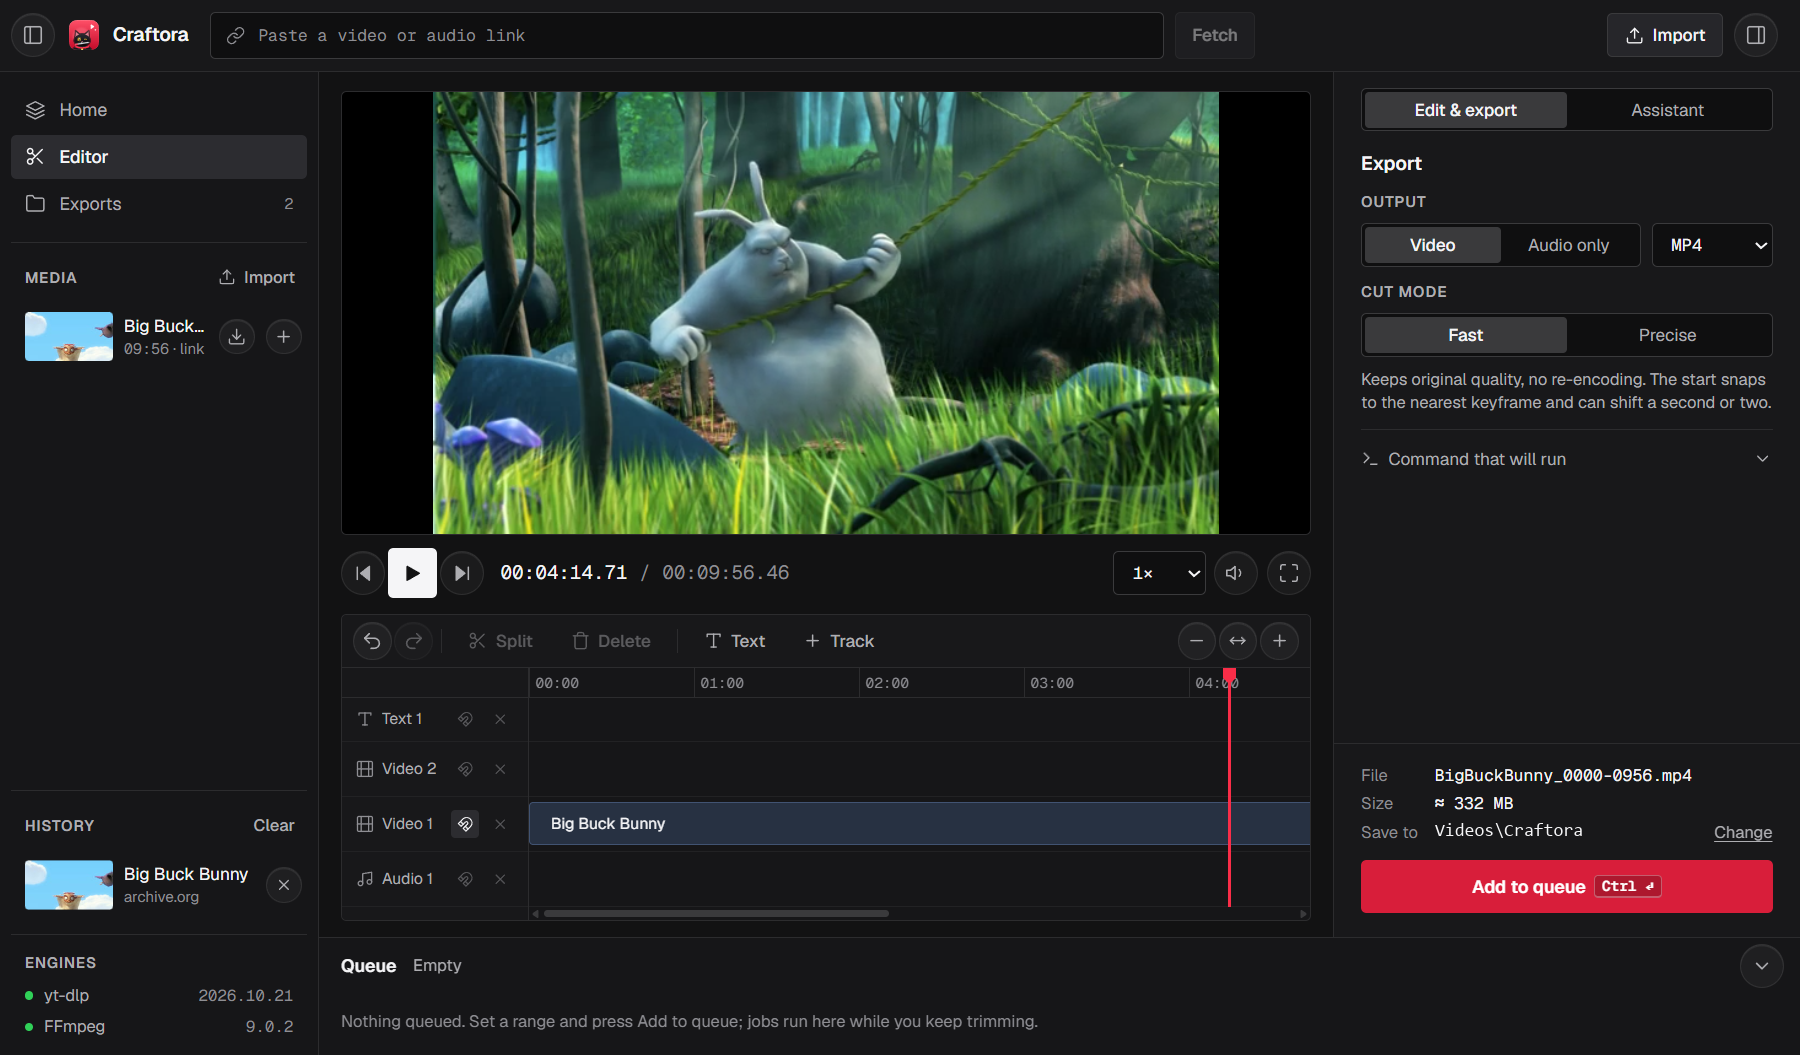
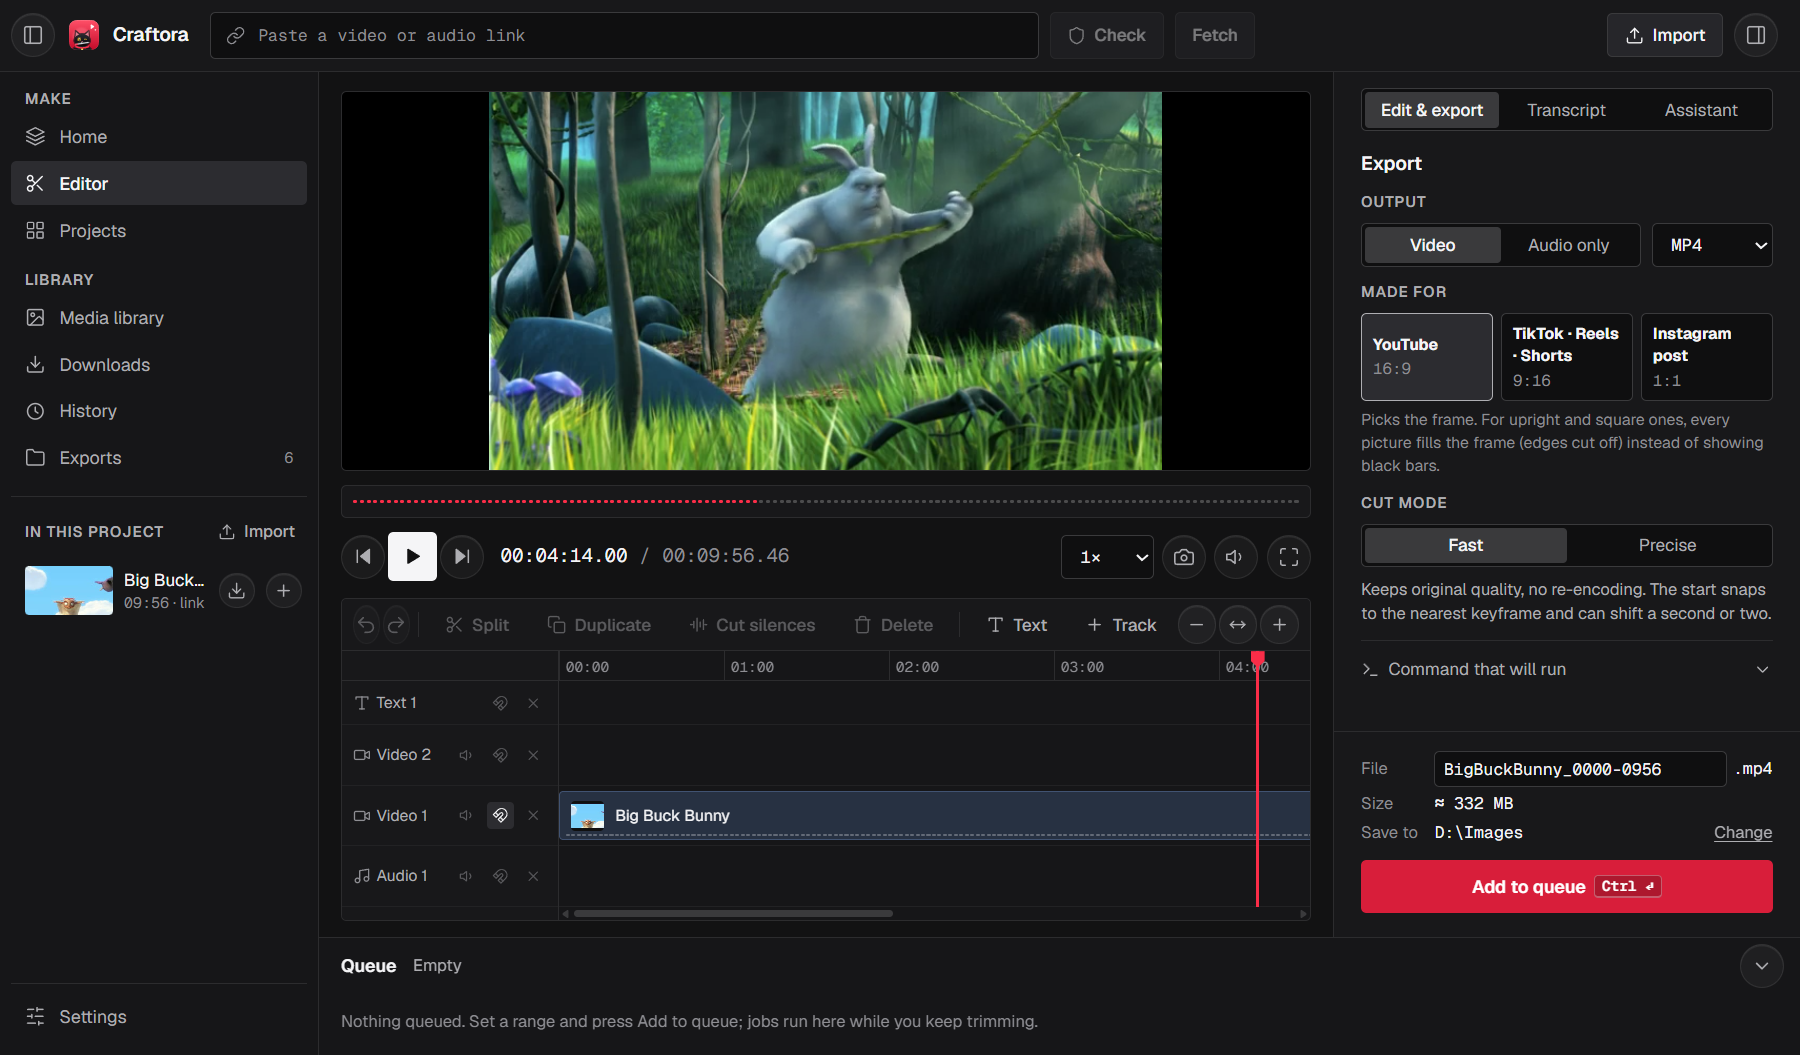
feat: update CHANGELOG, README, and PRIVACY files with new features and improvements, enhancing user experience and privacy controls

diff --git a/README.md b/README.md
@@ -21,15 +21,15 @@
   <a href="https://github.com/Cchheanglim/Craftora/issues">Report a problem</a>
 </p>
 
-<img src="docs/screenshot.png" width="100%" alt="Craftora's editor: a film in the preview, its clip on the timeline, Media and History in the sidebar, and the Export panel on the right">
+<img src="docs/screenshot.png" width="100%" alt="Craftora's editor: a film in the preview, its clip on the timeline, the sidebar with Make and Library pages, and the Edit and export panel with Transcript and Assistant tabs on the right">
 
 <sub>Shown: <em>Big Buck Bunny</em> © Blender Foundation, <a href="https://creativecommons.org/licenses/by/3.0/">CC BY 3.0</a>.</sub>
 
 </div>
 
-Put clips on a timeline, trim and split them, stack picture-in-picture, add titles, music and
-voice-overs, then export a clean video or audio file. Files on your PC work offline, and
-nothing is uploaded.
+Put clips on a timeline, trim and split them, stack picture-in-picture, add titles, music,
+voice-overs and captions, cut a video by deleting its words, then export a clean video or audio
+file. Files on your PC work offline, and nothing is uploaded.
 
 Craftora is a [Tauri 2](https://tauri.app) app with a React and TypeScript interface.
 [FFmpeg](https://ffmpeg.org) and [yt-dlp](https://github.com/yt-dlp/yt-dlp) ship inside it
@@ -45,8 +45,8 @@ and do the cutting, rendering and downloading.
   Windows account without admin rights.
   - The installer isn't code-signed, so Windows SmartScreen may say the publisher is
     unknown: choose **More info**, then **Run anyway**.
-  - Craftora checks for updates when it starts and offers to install them. You can turn this
-    off on the Home screen (**About → Check automatically**).
+  - Craftora checks for updates when it starts and offers to install them. Check by hand or
+    turn this off in **Settings → Updates**.
 - **Microsoft Store:** submitted, waiting for Microsoft's review. Store copies are signed by
   Microsoft and updated by the Store.
 
@@ -56,26 +56,35 @@ Windows 10 (version 1809 or later) or Windows 11, 64-bit. 8 GB of memory is reco
 
 **Bring things in**
 - Import video, audio and images (PNG, JPEG, WebP, BMP) from your PC: the **Import** button,
-  `Ctrl+O`, or drag files onto the window. Imported files work offline. An image starts at
-  5 seconds on the timeline; drag its edge to show it for longer.
+  `Ctrl+O`, or drag files onto the window. Imported files work offline, even files of several GB.
+  An image starts at 5 seconds on the timeline; drag its edge to show it for longer.
 - Paste a link from YouTube or any of the [many sites yt-dlp supports](https://github.com/yt-dlp/yt-dlp/blob/master/supportedsites.md)
   and click **Fetch**: the video goes straight onto the timeline, ready to edit (only the parts
-  you use are downloaded when you export). The ⬇ button in Media downloads the whole video to
-  `Videos\Craftora\Downloads` for smoother, offline editing. Streams the preview can't play are
-  downloaded by themselves. Fetched links are kept in **History** in the sidebar.
+  you use are downloaded when you export). The ⬇ button downloads the whole video for smoother,
+  offline editing; downloads can be **paused**, resumed later and **renamed** while they run.
+- **Live streams:** paste the link to a stream that's on right now. Craftora records it while you
+  edit, and **Stop recording** turns it into a normal video file.
 - **Links that need a login** (private, age-restricted, members-only): click **Sign in to …** on
   the error. Craftora opens its own small browser window (separate from your own browser); log
-  in, then click **Fetch this video**. The login is remembered and only used for that website.
-  Pages yt-dlp doesn't know ("Unsupported URL") work the same way: open the page, play the
-  video, click **Fetch this video**.
-- **Not sure a link is safe?** Click **Check** next to the top link box, or paste it under Home →
-  Links: Craftora asks [VirusTotal](https://www.virustotal.com) whether security vendors flag its
-  website (only the website's name is sent, never the full link).
-- Link previews are cached on your PC as they play: jumping back to any part already fetched
-  is instant. Stream playlists (HLS) preview too, including from sites that only serve their
-  own pages.
-- Files the built-in player can't show (AC-3 or DTS sound, AVI, HEVC and similar) get a
-  preview copy made in the background, once. Exports always use the original.
+  in, then click **Fetch this video**. It finds players embedded from other sites too. The login
+  is remembered and only used for that website, and Settings lists every website that saved
+  cookies, with **Forget** and **Hide**.
+- **Sites that block bots** (such as Cloudflare's check): Craftora tries again as a browser and
+  edits the downloaded copy.
+- **Not sure a link is safe?** Click **Check** next to the top link box: Craftora asks
+  [VirusTotal](https://www.virustotal.com) whether security vendors flag its website (only the
+  website's name is sent, never the full link).
+- Link previews are cached on your PC as they play, so jumping back is instant. Pick **Smooth**
+  (up to 720p, good on slow Wi-Fi) or **Sharp** (best quality) in Settings.
+
+**Captions and edit by text**
+- Captions come from the website when it has them; otherwise Craftora **listens to the sound and
+  writes them**, on your PC, without internet (Khmer and Thai too).
+- With **CC** on, captions show on the preview and go into the export. **Drag them anywhere** and
+  **resize them from a corner** (all captions together), or pick **Top / Middle / Bottom**. Long
+  lines wrap to fit the picture. **Add captions** puts them on a track as text you can edit.
+- The **Transcript** tab shows what's said: click a word to jump there, select words and press
+  **Delete** to cut them out of the video, or **Cut every "um"** in one click.
 
 **Edit on the timeline**
 - Every video track works the same way: higher tracks are drawn over lower ones, and any
@@ -87,6 +96,7 @@ Windows 10 (version 1809 or later) or Windows 11, 64-bit. 8 GB of memory is reco
 - Drag clips to move them and their edges to trim. Split at the playhead (`S`), duplicate
   (`Ctrl+D`), **cut silences** in one click, **split by chapters**, mute any track, delete, and
   undo or redo anything (`Ctrl+Z` / `Ctrl+Y`). Edges snap to the playhead and to other clips.
+- The sound wave under the preview and on each clip shows how loud every moment is.
 - Drag the red playhead, or anywhere on the ruler, to move through the video.
 
 **Shape each clip** (select it; settings are on the right)
@@ -96,6 +106,7 @@ Windows 10 (version 1809 or later) or Windows 11, 64-bit. 8 GB of memory is reco
   bars), change speed (0.25× to 4×), fade in and out, and set the volume.
 - **Transitions** between clips on a magnetic track: crossfade or dip to black.
 - Text: words, size, colour and place.
+- A clip whose file moved or was renamed gets **Find file** to point Craftora to it.
 
 **AI assistant** (optional): describe an edit in your own words, such as "add the title My
 Trip for 3 seconds" or "put crossfades between all the clips", and it makes the edit. It
@@ -105,20 +116,24 @@ uses your own API key for Gemini, ChatGPT or Claude; see [The AI assistant](#the
 - MP4 or MKV video, or audio only (MP3, WAV, FLAC), in 16:9, 9:16 (Shorts and Reels), 1:1
   or 4:3. **Made for** gives one-click presets for YouTube, TikTok · Reels · Shorts and
   Instagram (upright and square ones make every picture fill the frame).
+- Type the file name yourself under **Add to queue**.
 - **Fast** export uses your graphics card (NVIDIA, Intel or AMD) when the PC has one, which is
   several times quicker; **Best quality** uses the processor for smaller files.
 - Exports run in a queue at the bottom while you keep editing. Choose the save folder next
-  to **Save to** in the Export panel (default: `Videos\Craftora`).
-- Before anything that can't be undone (deleting a project, cancelling a running export),
-  Craftora asks first. Edits on the timeline can always be undone with `Ctrl+Z`.
+  to **Save to** in the Export panel or in Settings (default: `Videos\Craftora`).
 - Open **Command that will run** in the Export panel to see the exact FFmpeg and yt-dlp
   commands.
 
 **Your work is kept**
-- Projects save themselves as you edit. Open, start or delete them on the Home screen.
-- Finished exports are listed under **Exports**, even after you restart. Any export can be
-  hidden from the list and from Home (**Hide**, kept under **Hidden** until you click
-  **Unhide**; the file stays in your save folder).
+- Projects save themselves as you edit. The sidebar has a page for each kind of thing:
+  **Projects**, **Media library** (every file you've imported, with search and ★ Saved),
+  **Downloads**, **History** (every link you've fetched) and **Exports**. Rest the mouse on a
+  video's picture to see it play.
+- **Hide** anything on those pages: it moves to a folded **Hidden** list (**Unhide** brings it
+  back; nothing is deleted). Settings → Privacy can take the Hidden lists away completely.
+- Before anything that can't be undone (deleting a project or file, signing out of a website,
+  stopping a recording), Craftora asks first. Deleted exports go to the Recycle Bin. Edits on
+  the timeline can always be undone with `Ctrl+Z`.
 
 ### How export works
 
@@ -174,7 +189,9 @@ times and settings, never the media) to that service. The assistant can't watch 
 
 Craftora goes online only when you ask it to: fetching a link, sending a message to the
 assistant, or checking for updates (which you can turn off). Files from your PC are never
-uploaded. Details: [PRIVACY.md](PRIVACY.md).
+uploaded, and captions made from the sound are made on your PC. **Settings → Privacy** takes an
+HTTP proxy for every connection Craftora makes, and can hide the Hidden lists. Details:
+[PRIVACY.md](PRIVACY.md).
 
 ## For developers
 
@@ -196,7 +213,7 @@ git clone https://github.com/Cchheanglim/Craftora.git
 cd Craftora
 bun install
 
-# Download yt-dlp and FFmpeg (≈ 200 MB, checksum-verified) into src-tauri/bin/
+# Download yt-dlp, FFmpeg, Deno and whisper.cpp (checksum-verified) into src-tauri/bin/
 powershell -ExecutionPolicy Bypass -File scripts/fetch-sidecars.ps1
 
 # Run the desktop app with live reload
@@ -229,20 +246,26 @@ src/                      React + TypeScript interface (plain CSS)
     usePlayback.ts        The timeline clock
     exportPlan.ts         Fast cut vs full render, sizes and command preview
   assistant/              The AI assistant: tools (one per edit action) and the chat loop
-  components/             Toolbar, Sidebar, Preview, TimelineEditor, Inspector,
-                          ExportPanel, AssistantPanel, QueueDock, Home, Library
+  components/             Toolbar, Sidebar, Preview, TimelineEditor, Inspector, Transcript,
+                          ExportPanel, AssistantPanel, QueueDock, Home and the sidebar
+                          pages (Projects, MediaLibrary, Downloads, History, Library, Settings)
   lib/                    Bridges to Rust (engine, storage), updates
   state/useQueue.ts       The export queue
   styles/                 Design tokens and shared controls (see DESIGN.md)
 src-tauri/                Rust (Tauri 2)
   src/media.rs            Fetch: yt-dlp --dump-json → formats and preview
-  src/local.rs            Open files with ffprobe; preview copies
+  src/media_cache.rs      Link previews from a disk cache; stream relay; big local files
+  src/signin.rs           Craftora's browser window: logins, cookies, "Fetch this video"
+  src/captions.rs         Captions from websites; speech.rs makes them from the sound
+  src/live.rs             Recording live streams; page_fetch.rs for bot-checked sites
+  src/privacy.rs          The proxy for every connection
+  src/local.rs            Open files with ffprobe; preview copies; sound waves
   src/jobs.rs             Queue plumbing, progress, cancelling, fast single cuts
   src/project.rs          Timeline render: one FFmpeg filter graph
   src/store.rs            Projects, export history and settings on disk
   src/assistant.rs        AI requests (Gemini, OpenAI, Claude); keys in Credential Manager
   msix/                   Microsoft Store package manifest and identity
-  bin/                    yt-dlp and FFmpeg (downloaded, not committed)
+  bin/                    yt-dlp, FFmpeg, Deno and whisper.cpp (downloaded, not committed)
 scripts/                  fetch-sidecars.ps1, make-msix.ps1
 .github/workflows/        release.yml: builds and publishes releases
 ```
@@ -254,6 +277,8 @@ you have opened in Craftora.
 ## Roadmap
 
 - Let the AI assistant hear the media (for example, to find silences).
+- Caption styles (font, colour) and saving captions as an `.srt` file.
+- Exact word timing for edit by text.
 - Faster previews of large files from this PC.
 - Code-signed installers on GitHub.
 

diff --git a/PRIVACY.md b/PRIVACY.md
@@ -10,11 +10,11 @@ These are the only times Craftora goes online:
 - **Signing in to a website.** When a link needs a login, Craftora can open the website in its
   own small browser window, separate from your browser. Logins made there are kept on your PC,
   inside Craftora, and are only sent to the website they belong to, when you fetch from it.
-  **Sign out of all** (Home → Links) removes them.
+  **Sign out of all** (Settings → Links) removes them.
 - **Pictures of fetched videos.** When you fetch a video, Craftora downloads its picture once and
   keeps a small copy on your PC for History, Media, Projects and Exports. (Videos fetched with
   version 0.3.0 or earlier still load their picture from the website each time.)
-- **"Is this link safe?"** Only when you paste a link into the check box under Home → Links and
+- **"Is this link safe?"** Only when you paste a link into the check box under Settings → Links and
   click **Check**: Craftora sends VirusTotal the website's name (for example `youtube.com`),
   never the full link, using Craftora's own VirusTotal key. VirusTotal's
   [terms and privacy policy](https://www.virustotal.com/gui/terms-of-service) apply.
@@ -27,7 +27,7 @@ These are the only times Craftora goes online:
 - **Captions made from the sound.** Craftora listens to a video's sound and writes captions on
   your PC; the sound isn't sent anywhere. The first time, it downloads the speech model
   (`ggml-base.bin`, 148 MB) from Hugging Face. You can turn this off in Settings.
-- **Updating yt-dlp.** The **Update yt-dlp** button (Home → Links) downloads the newest yt-dlp
+- **Updating yt-dlp.** The **Update yt-dlp** button (Settings → Links) downloads the newest yt-dlp
   from GitHub.
 - **The AI assistant.** It is off until you add your own API key for Google Gemini, OpenAI
   (ChatGPT) or Anthropic (Claude). Each message you send goes to the service you picked, and only

diff --git a/CHANGELOG.md b/CHANGELOG.md
@@ -9,6 +9,14 @@
 - **Preview quality.** Settings → Preview quality of links: **Smooth** (up to 720p, the default,
   good on slow Wi-Fi) or **Sharp** (the best quality the site offers, for example 1080p on YouTube
   instead of 360p).
+- **Hide things you don't want to see.** **Projects**, **Media library**, **Downloads** and
+  **History** get a **Hide** button on each row, like Exports: hidden items move to a folded
+  **Hidden** list at the bottom (**Unhide** brings them back; nothing is deleted). **Select** can
+  hide several projects or links at once, and hidden projects leave Home too.
+- **Keep hidden things private.** **Settings → Privacy → Don't show them** takes the Hidden lists
+  away from every page, so nobody using the PC can open them; **Show hidden items** brings them back.
+- **Craftora's cat on the installer.** The setup file shows Craftora's icon instead of the
+  installer tool's.
 - **Updates in Settings.** Settings → Updates shows your version, **Check for updates**, **Install
   and restart** and **Check automatically** (also still under Home → About).
 - **Use your own AI.** The assistant now works with Gemini, ChatGPT (OpenAI) or Claude
